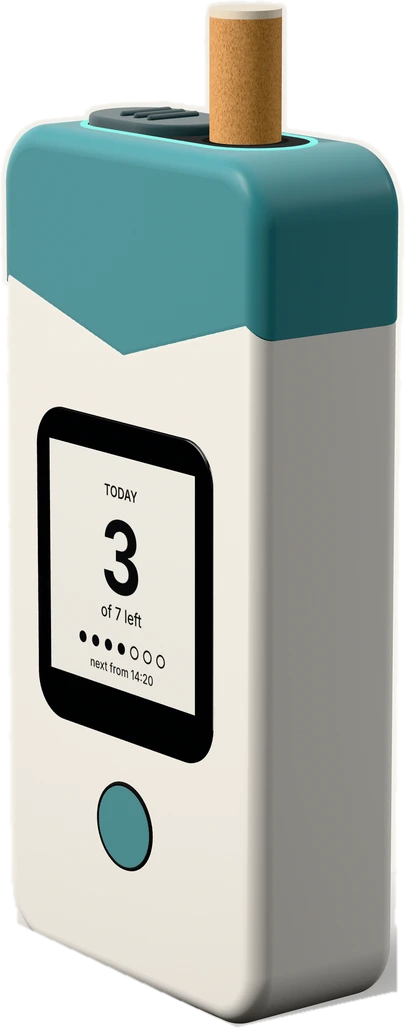
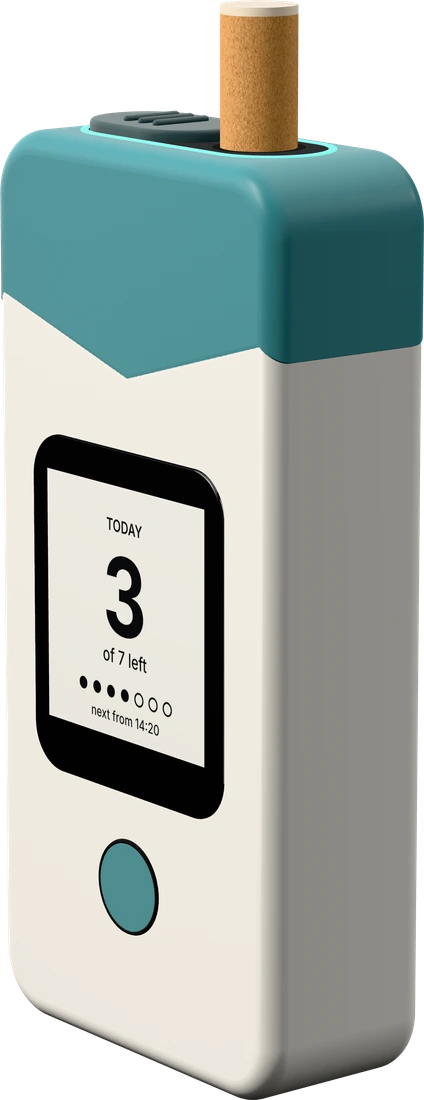
Dial: new Relinquit cut-out
Claude-Session: https://claude.ai/code/session_016HT8M4ZHhrVr9NAe4Ea33j

diff --git a/index.html b/index.html
@@ -55,7 +55,7 @@
 <img class="peek" id="peek" alt="" aria-hidden="true">
 
 <noscript><p style="padding:2rem">This site needs JavaScript to show the work. Email alexdenli200@gmail.com for a PDF portfolio.</p></noscript>
-<script src="js/data.js?v=4"></script>
+<script src="js/data.js?v=5"></script>
 <script src="js/rescue.js"></script>
 <script src="js/relinquit.js"></script>
 <script src="js/shield.js"></script>
